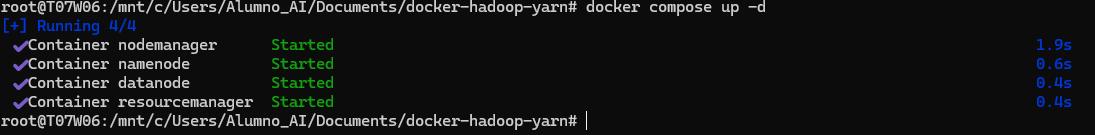
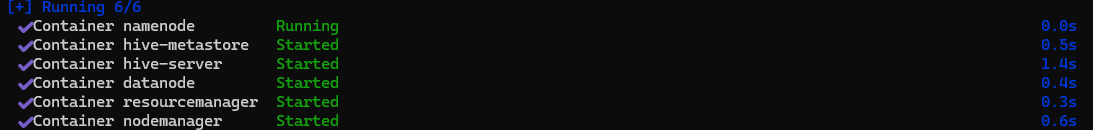
Commit de proyecto docker+hadoop+yarn+hive

diff --git a/README.md b/README.md
@@ -14,7 +14,7 @@ docker-compose –version
 ```
  
 
-## Docker + Hadoop + YARN 
+## Docker + Hadoop + YARN + Hive
 
 1. Crear un nuevo directorio para el proyecto 
 2. Crear el archivo docker-compose.yml: 
@@ -78,9 +78,40 @@ services:
       - datanode
       - resourcemanager
 
+  hive-metastore:
+    image: mysql:5.7
+    container_name: hive-metastore
+    restart: always
+    environment:
+      MYSQL_ROOT_PASSWORD: root
+      MYSQL_DATABASE: metastore
+      MYSQL_USER: hive
+      MYSQL_PASSWORD: hive
+    ports:
+      - 3307:3306
+    volumes:
+      - hive-metastore-data:/var/lib/mysql
+
+  hive-server:
+    image: bde2020/hive:2.3.2
+    container_name: hive-server
+    restart: always
+    environment:
+      HIVE_METASTORE_URIS: thrift://hive-metastore:9083
+      HADOOP_CONF_DIR: /usr/local/hadoop/etc/hadoop
+      HIVE_HOME: /usr/local/hive
+    ports:
+      - 10000:10000
+    depends_on:
+      - hive-metastore
+      - namenode
+      - datanode
+      - resourcemanager
+
 volumes:
   hadoop_namenode:
   hadoop_datanode:
+  hive-metastore-data:
 ```
 3. Crear el archivo de variables de entorno hadoop.env: 
 ```bash
@@ -111,7 +142,29 @@ YARN_CONF_yarn_timeline___service_enabled=true
 YARN_CONF_yarn_timeline___service_generic___application___history_enabled=true
 YARN_CONF_yarn_nodemanager_remote___app___log___dir=/app-logs
 ```
-4. Iniciar el cluster 
+4. Configurar Hive. Agregamos las dependencias necesarias y las configuraciones en el contenedor de Hive.
+Creamos un archivo de configuración hive-site.xml cuyo contenido es:
+```bash
+<configuration>
+  <property>
+    <name>javax.jdo.option.ConnectionURL</name>
+    <value>jdbc:mysql://hive-metastore:3306/metastore</value>
+  </property>
+  <property>
+    <name>javax.jdo.option.ConnectionDriverName</name>
+    <value>com.mysql.cj.jdbc.Driver</value>
+  </property>
+  <property>
+    <name>javax.jdo.option.ConnectionUserName</name>
+    <value>hive</value>
+  </property>
+  <property>
+    <name>javax.jdo.option.ConnectionPassword</name>
+    <value>hive</value>
+  </property>
+</configuration>
+```
+5. Iniciar el cluster 
 ```bash
 docker compose up –d  
  ```
@@ -127,74 +180,81 @@ docker rm CONTAINER_name
 
 5. Prueba del cluster 
 
--Entramos al contenedor namenode 
+Antes debemos detener y eliminar todos los contenedores
 ```bash
-docker compose exec namenode bash 
-```
-Nos debe aparecer un codigo:  
-![img1](assets/img/img1.png)
+docker-compose down
+ ```
+ Verificamos si tenemos algun contenedor en ejecución
+ ```bash
+docker ps
+ ```
+ Levantamos el contenedor
+```bash
+docker compose up –d  
+ ```
 
-Crear un directorio de prueba en HDFS 
-```bash
-hdfs dfs -mkdir -p /user/root/prueba 
-```
+ Vemos que se ha levantado el contenedor con los servicios de Hive
+ ![img0](assets/img/img0.png)
 
-Crear un archivo de prueba 
-```bash
-echo "Hola Mundo estoy testeando" > prueba.txt 
-```
-Podemos comprobar que esta creado con un: 
-```bash
-ls 
-```
 
-Cargamos el archivo desde el sistema de archivos local a HDFS 
-```bash
-hdfs dfs -put prueba.txt /user/root/prueba 
-```
+ ## Realizar consultas básicas SQL con el Cliente de Línea de Comandos de Hive
 
-Verificar que el archivo está en HDFS 
+La forma más común de interactuar con Hive es mediante su cliente de línea de comandos. Aquí están los pasos para conectarte al contenedor de Hive y ejecutar consultas SQL:
+
+1. Acceder al Contenedor de Hive
+Puedes acceder al contenedor de Hive utilizando docker exec. Primero, verifica que el contenedor de Hive está en ejecución:
 ```bash
-hdfs dfs -cat /user/root/prueba/prueba.txt 
+docker ps
 ```
 
- ## Ejemplo WordCount 
- 
-
-1. Crear directorio para input 
+Luego, ejecuta el siguiente comando para entrar al contenedor:
 ```bash
-hdfs dfs -mkdir -p /user/root/wordcount/input 
-```
-  
-
-2. Crear archivo de prueba 
-```bash
-echo "Hola mundo Hola world" > input.txt 
-```
-```bash
-hdfs dfs -put input.txt /user/root/wordcount/input 
-```
- 
-3. Comprobamos que se ha cargado el fichero con: 
-```bash 
-hdfs dfs -ls /user/root/wordcount/input 
+docker exec -it hive-server /bin/bash
 ```
 
-4. Ejecutar WordCount 
+Si nos da error podemos reinciar el contenedor de Hive
 ```bash
-hadoop jar /opt/hadoop-3.2.1/share/hadoop/mapreduce/hadoop-mapreduce-examples-3.2.1.jar wordcount /user/root/wordcount/input /user/root/wordcount/output 
-```
-Si ya existe porque lo hemos ejecutado antes podemos borrar el directorio output:
-```bash
-hdfs dfs -rm -r /user/root/wordcount/output 
-```
-  
-5. Comprobar el resultado 
-```bash
-hdfs dfs -cat /user/root/wordcount/output/part-r-00000 
+docker-compose restart hive-server
 ```
 
-Aquí vemos como nos ha contado las palabras de nuestro archivo en el cual teníamos: 
-"Hola mundo Hola world" 
+2.  Iniciar el Cliente de Hive
+Dentro del contenedor iniciamos el cliente de Hive
+```bash
+hive
+```
 
-![img2](assets/img/img2.png)
+3. Realizar consultas
+  1. Crear una base de datos:
+  ```sql
+  CREATE DATABASE test_db;
+  ```
+  2. Usar la base de datos:
+  ```sql
+  USE test_db;
+  ```
+  3. Crear una tabla:
+  ```sql
+  CREATE TABLE test_table (
+    id INT,
+    name STRING
+  );
+  ```
+  4. Insertar datos en la tabla:
+  ```sql
+  INSERT INTO TABLE test_table VALUES (1, 'Maria'), (2, 'Juan');
+  ```
+  5. Consultar datos:
+  ```sql
+  SELECT * FROM test_table;
+  ```
+
+4. Salir del Cliente de Hive
+Para salir del cliente de Hive, puedes usar: 
+  ```sql
+  exit;
+  ```
+
+  Y para salir del contenedor:
+  ```bash
+  exit
+  ```
